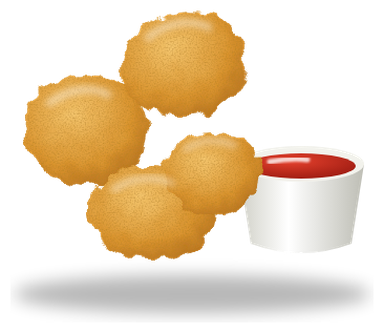
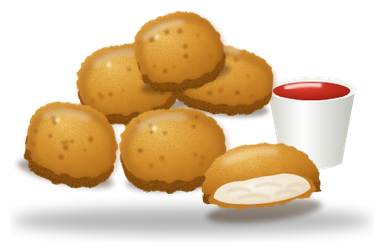
Neues Bild für die Nuggets [skip ci]
Statt schwebender, keksartiger Kugeln: ein Häufchen goldbraun panierter
Nuggets mit sichtbarer Dicke, knuspriger Panade und Schatten, eines
durchgebrochen mit hellem Hähnchenfleisch, dazu der Ketchup-Dip.

Claude-Session: https://claude.ai/code/session_01NupdSHJUqBHfHitkyt8aD3

diff --git a/tool/article_art/draw.py b/tool/article_art/draw.py
@@ -306,19 +306,71 @@ ART['pommes'] = svg(
 <linearGradient id="tuete" x1="0" x2="1"><stop offset="0" stop-color="#a81b1b"/><stop offset=".35" stop-color="#e2392f"/><stop offset=".7" stop-color="#d22a24"/><stop offset="1" stop-color="#8f1515"/></linearGradient>
 ''')
 
-NUGGET = '''<path d="{d}" fill="url(#nug)" filter="url(#crumb)"/>'''
+NUGGET_SHAPES = {
+    'rund': 'M-58 4 C-62 -30 -30 -44 2 -42 C34 -40 60 -28 60 2 C60 30 34 42 0 42 C-34 42 -56 32 -58 4 Z',
+    'glocke': 'M-50 -10 C-48 -40 -14 -46 10 -44 C40 -42 56 -22 58 8 C60 34 30 44 -4 42 C-40 40 -52 22 -50 -10 Z',
+    'lang': 'M-64 0 C-64 -26 -36 -38 -4 -36 C30 -34 64 -26 64 2 C64 28 36 38 0 38 C-36 38 -64 26 -64 0 Z',
+}
+
+
+def nugget(x, y, shape, rot=0, scale=1.0, seed=0):
+    """Paniertes Nugget mit Dicke: dunklere Unterseite, knusprige Oberseite,
+    Glanzpunkte und Krümel."""
+    d = NUGGET_SHAPES[shape]
+    rnd = random.Random(seed)
+    specks = ''.join(
+        f'<circle cx="{rnd.uniform(-44, 44):.0f}" cy="{rnd.uniform(-30, 26):.0f}" r="{rnd.uniform(1.4, 3.2):.1f}" '
+        f'fill="{rnd.choice(["#8a4c12", "#a65e16", "#7a3f0c"])}" opacity=".55" filter="url(#blur1)"/>' for _ in range(12))
+    return (f'<g transform="translate({x} {y}) rotate({rot}) scale({scale})">'
+            f'<ellipse cx="4" cy="40" rx="58" ry="12" fill="#3a2008" opacity=".45" filter="url(#blur3)"/>'
+            f'<path d="{d}" transform="translate(0 12)" fill="url(#nugSeite)" filter="url(#crumbFine)"/>'
+            f'<path d="{d}" fill="url(#nug)" filter="url(#crumbFine)"/>'
+            f'<path d="{d}" fill="none" stroke="#9a5512" stroke-width="10" opacity=".35" filter="url(#blur3)" '
+            f'transform="translate(3 6) scale(.94)"/>'
+            f'{specks}'
+            + shine('M-34 -22 C-20 -32 0 -34 16 -30', 6, .45, 'blur3')
+            + '<circle cx="-18" cy="-20" r="3" fill="#fff" opacity=".6" filter="url(#blur1)"/>'
+            + '</g>')
+
+
+def nugget_half(x, y, rot=0, scale=1.0):
+    """Durchgebrochenes Nugget: helles Hähnchenfleisch mit Panaderand."""
+    crust = 'M-60 6 C-62 -26 -30 -42 2 -40 C34 -38 60 -26 60 6 Z'
+    face = 'M-56 6 C-54 -6 -40 -12 -20 -10 C-4 -14 14 -12 26 -14 C42 -12 56 -6 56 6 C40 22 -40 22 -56 6 Z'
+    return (f'<g transform="translate({x} {y}) rotate({rot}) scale({scale})">'
+            f'<ellipse cx="0" cy="30" rx="60" ry="11" fill="#3a2008" opacity=".45" filter="url(#blur3)"/>'
+            f'<path d="{crust}" transform="translate(0 10)" fill="url(#nugSeite)" filter="url(#crumbFine)"/>'
+            f'<path d="{crust}" fill="url(#nug)" filter="url(#crumbFine)"/>'
+            + shine('M-34 -24 C-18 -32 2 -34 18 -30', 6, .45, 'blur3') +
+            f'<path d="{face}" transform="translate(0 8)" fill="#c27a26" filter="url(#crumbFine)"/>'
+            f'<path d="{face}" transform="translate(0 6) scale(.9)" fill="url(#huhn)"/>'
+            '<g stroke="#d8c3a0" stroke-width="2.2" stroke-linecap="round" opacity=".8" fill="none" filter="url(#blur1)">'
+            '<path d="M-36 6 Q-24 2 -12 8 M-6 4 Q8 0 20 6 M26 8 Q36 4 44 8 M-24 14 Q-8 10 6 16 M14 14 Q26 10 36 14"/></g>'
+            '</g>')
+
+
 ART['nuggets'] = svg('''
-<path d="M300 328 Q360 318 420 328 L408 404 Q360 422 312 404 Z" fill="url(#napf)"/>
-<ellipse cx="360" cy="328" rx="60" ry="17" fill="#f2f2ec"/>
-<ellipse cx="360" cy="330" rx="52" ry="12" fill="url(#ketchup)"/>
-''' + shine('M330 326 Q350 322 366 324', 5, .8, 'blur1') + ''.join(NUGGET.format(d=d) for d in [
-    'M96 300 C90 250 150 230 186 250 C222 268 222 320 190 340 C150 360 100 340 96 300 Z',
-    'M190 230 C200 180 270 170 296 200 C322 232 300 276 262 282 C224 288 182 268 190 230 Z',
-    'M160 380 C150 336 210 320 246 334 C286 350 288 396 252 412 C214 428 168 416 160 380 Z',
-    'M230 330 C236 296 290 290 312 312 C334 336 316 372 284 376 C252 380 226 360 230 330 Z']) + '''
-''' + shine('M120 270 C140 256 160 254 176 262', 7, .45) + shine('M214 208 C232 192 256 190 272 198', 7, .45)
-    + shine('M182 352 C200 340 220 340 236 346', 7, .4) + shine('M250 314 C264 304 282 304 296 310', 6, .4), defs='''
-<radialGradient id="nug" cx=".4" cy=".35" r=".8"><stop offset="0" stop-color="#f4c56d"/><stop offset=".6" stop-color="#d9932f"/><stop offset="1" stop-color="#a8641a"/></radialGradient>
+<path d="M346 262 L362 350 Q398 366 434 350 L450 262 Z" fill="url(#napf)"/>
+<ellipse cx="398" cy="262" rx="54" ry="15" fill="#f4f4ee"/>
+<ellipse cx="398" cy="264" rx="46" ry="11" fill="url(#ketchup)"/>
+''' + shine('M368 260 Q388 255 408 257', 5, .8, 'blur1')
+    + nugget(178, 250, 'rund', -8, 1.0, 1)
+    + nugget(292, 244, 'lang', 6, .95, 2)
+    + nugget(110, 322, 'glocke', 12, 1.0, 3)
+    + nugget(236, 214, 'glocke', -14, .95, 5)
+    + nugget(232, 328, 'rund', -4, 1.05, 4)
+    + nugget_half(338, 372, -6, 1.15), shadow=(256, 418, 214, 16), defs='''
+<filter id="crumbFine" x="-15%" y="-15%" width="130%" height="130%">
+  <feTurbulence type="fractalNoise" baseFrequency="0.09" numOctaves="2" seed="3" result="t"/>
+  <feDisplacementMap in="SourceGraphic" in2="t" scale="7" xChannelSelector="R" yChannelSelector="G" result="r"/>
+  <feTurbulence type="fractalNoise" baseFrequency="0.8" numOctaves="2" seed="6" result="n"/>
+  <feColorMatrix in="n" type="matrix" values="0 0 0 0 0.42  0 0 0 0 0.2  0 0 0 0 0.02  1.5 0 0 0 -0.62" result="d"/>
+  <feComposite in="d" in2="r" operator="in" result="d2"/>
+  <feMerge><feMergeNode in="r"/><feMergeNode in="d2"/></feMerge>
+</filter>
+<radialGradient id="nug" cx=".38" cy=".3" r=".85"><stop offset="0" stop-color="#f3c463"/><stop offset=".45" stop-color="#dc9632"/><stop offset=".85" stop-color="#b8701e"/><stop offset="1" stop-color="#965414"/></radialGradient>
+<linearGradient id="nugSeite" x1="0" y1="0" x2="0" y2="1"><stop offset="0" stop-color="#a8621a"/><stop offset="1" stop-color="#6a370b"/></linearGradient>
+<radialGradient id="huhn" cx=".45" cy=".4" r=".7"><stop offset="0" stop-color="#fbf5ea"/><stop offset=".7" stop-color="#efe2cb"/><stop offset="1" stop-color="#dcc6a2"/></radialGradient>
 <linearGradient id="napf" x1="0" y1="0" x2="1" y2="0"><stop offset="0" stop-color="#cfcfc6"/><stop offset=".4" stop-color="#ffffff"/><stop offset="1" stop-color="#bdbdb4"/></linearGradient>
 <radialGradient id="ketchup" cx=".4" cy=".3" r=".9"><stop offset="0" stop-color="#e5412d"/><stop offset="1" stop-color="#8f140c"/></radialGradient>
 ''')
